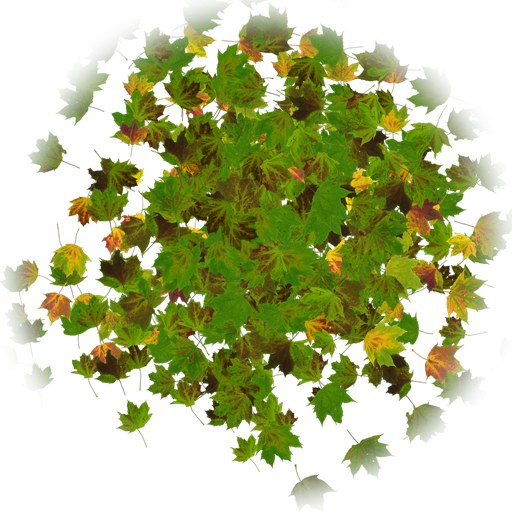
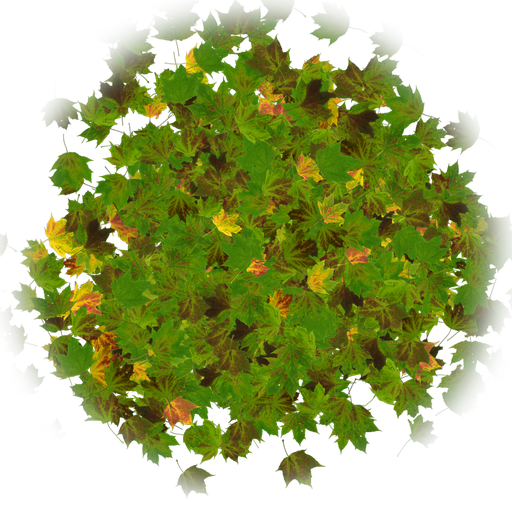
fid29 dressing: the plane crown at under 3 leaf layers
The leaf overdraw at the victory shot was 5.5 fragments per crown pixel (tools/props/leaf_overdraw.py: the
LOD0 crown rasterised from 8 side views, every fragment counted over the pixels where a leaf survives the alpha
test), against a cap of 3. The cluster texture now holds twice the leaves gathered tighter (make_atlas LEAF_N,
alpha coverage 0.46 -> 0.56 of the card), each card is the octagon that bounds the texture's leaves instead of a
square (0.79 of it is leaf), and the crown needs 250 cards instead of 380: 2.9 fragments per pixel (p95 7, was
14), surviving layers 2.8 -> 2.4, LOD0 3052 -> 3792 triangles (bark unchanged, 6 triangles a card). The mid
impostor is re-rendered from the new crown (tools/props/imp_sheet.py lays the two Cycles views side by side).
The prop atlases and every prop mesh keep their bytes.

diff --git a/app/game3d/tools/props/leaf_overdraw.py b/app/game3d/tools/props/leaf_overdraw.py
@@ -1,0 +1,56 @@
+# leaf_overdraw.py MESH.json LEAVES.png [threshold] : leaf overdraw of the London plane's crown (fid29 dressing).
+# Rasterises the leaf cards orthographically from 8 side views (every 45 degrees, 10 degrees up, as the fight camera sees
+# a street tree) on a 1 cm grid scaled to 512 px across the crown and counts, per pixel of the tree mask (pixels where
+# at least one fragment survives the alpha test at `threshold`): rasterised fragments (what the GPU shades, alpha-tested
+# ones included) and surviving fragments. Prints the mean and p95 over the mask for each view and overall.
+import json, math, sys
+import numpy as np
+from PIL import Image
+mesh = json.load(open(sys.argv[1])); alpha = np.asarray(Image.open(sys.argv[2]).convert("RGBA"))[:, :, 3].astype(np.float32) / 255.0
+thr = float(sys.argv[3]) if len(sys.argv) > 3 else 0.45
+H, W = alpha.shape
+tris = []
+for s in mesh:
+    v = np.array(s["v"], np.float64); uv = np.array(s["uv"], np.float64) if s["uv"] else None
+    idx = np.array(s["i"], np.int64).reshape(-1, 3) if s["i"] else np.arange(len(v)).reshape(-1, 3)
+    tris.append((v, uv, idx))
+N = 512
+def view(yaw, pitch):
+    cy, sy, cp, sp = math.cos(yaw), math.sin(yaw), math.cos(pitch), math.sin(pitch)
+    right = np.array([cy, 0, -sy]); fwd = np.array([sy * cp, sp, cy * cp]); up = np.cross(right, fwd) * -1.0
+    pts = [(v @ right, v @ up) for v, _, _ in tris]
+    allx = np.concatenate([p[0] for p in pts]); ally = np.concatenate([p[1] for p in pts])
+    x0, x1, y0, y1 = allx.min(), allx.max(), ally.min(), ally.max(); sc = (N - 1) / max(x1 - x0, y1 - y0)
+    raster = np.zeros((N, N), np.int32); passed = np.zeros((N, N), np.int32)
+    for (v, uv, idx), (px, py) in zip(tris, pts):
+        X = (px - x0) * sc; Y = (py - y0) * sc
+        for t in idx:
+            a, b, c = t
+            xs = np.array([X[a], X[b], X[c]]); ys = np.array([Y[a], Y[b], Y[c]])
+            bx0, bx1 = int(max(0, math.floor(xs.min()))), int(min(N - 1, math.ceil(xs.max())))
+            by0, by1 = int(max(0, math.floor(ys.min()))), int(min(N - 1, math.ceil(ys.max())))
+            if bx1 < bx0 or by1 < by0: continue
+            gx, gy = np.meshgrid(np.arange(bx0, bx1 + 1) + 0.5, np.arange(by0, by1 + 1) + 0.5)
+            d = (ys[1] - ys[2]) * (xs[0] - xs[2]) + (xs[2] - xs[1]) * (ys[0] - ys[2])
+            if abs(d) < 1e-9: continue
+            l0 = ((ys[1] - ys[2]) * (gx - xs[2]) + (xs[2] - xs[1]) * (gy - ys[2])) / d
+            l1 = ((ys[2] - ys[0]) * (gx - xs[2]) + (xs[0] - xs[2]) * (gy - ys[2])) / d
+            l2 = 1 - l0 - l1
+            inside = (l0 >= 0) & (l1 >= 0) & (l2 >= 0)
+            if not inside.any(): continue
+            raster[by0:by1 + 1, bx0:bx1 + 1] += inside
+            if uv is not None:
+                u = l0 * uv[a, 0] + l1 * uv[b, 0] + l2 * uv[c, 0]; w = l0 * uv[a, 1] + l1 * uv[b, 1] + l2 * uv[c, 1]
+                al = alpha[np.clip((w * H).astype(int) % H, 0, H - 1), np.clip((u * W).astype(int) % W, 0, W - 1)]
+                passed[by0:by1 + 1, bx0:bx1 + 1] += inside & (al >= thr)
+            else:
+                passed[by0:by1 + 1, bx0:bx1 + 1] += inside
+    m = passed > 0
+    return raster[m], passed[m], m.sum()
+R, P = [], []
+for k in range(8):
+    r, p, n = view(k * math.pi / 4, math.radians(10))
+    R.append(r); P.append(p)
+    print("view %3d deg: mask %6d px  rasterised mean %.2f p95 %.0f  surviving mean %.2f p95 %.0f" % (k * 45, n, r.mean(), np.percentile(r, 95), p.mean(), np.percentile(p, 95)))
+r = np.concatenate(R); p = np.concatenate(P)
+print("ALL: rasterised fragments per mask pixel mean %.2f p50 %.0f p95 %.0f; surviving mean %.2f p95 %.0f" % (r.mean(), np.percentile(r, 50), np.percentile(r, 95), p.mean(), np.percentile(p, 95)))

diff --git a/app/game3d/tools/props/make_atlas.py b/app/game3d/tools/props/make_atlas.py
@@ -10,6 +10,7 @@ PH, ACG, OUT = sys.argv[1], sys.argv[2], sys.argv[3]
 HERE = os.path.dirname(os.path.abspath(__file__))
 L = json.load(open(os.path.join(HERE, "atlas_layout.json")))
 os.makedirs(OUT, exist_ok=True)
+LEAF_N, LEAF_SPREAD = 96, 165   # leaves per cluster texture and their spread (px of 1024)
 TIERS = {"high": {"a": 2048, "n": 2048, "orm": 1024, "leaf": 512}, "mid": {"a": 1024, "n": 512, "orm": 512, "leaf": 256}}
 
 # Paint-outs on the 1K source maps: (kind, [x0, y0, x1, y1] to cover, [dx, dy] clean source offset, why)
@@ -125,7 +126,9 @@ def leaves(tier, S):
     big = 1024
     out = Image.new("RGBA", (big, big), (0, 0, 0, 0))
     # summer-to-autumn mix: most leaves pulled towards plane green, a few left yellow
-    for i in range(46):
+    # fid29 overdraw cap: twice the leaves, gathered tighter, so a card is mostly leaf (alpha coverage about 0.65 of
+    # the card, 0.9 of its trimmed octagon) and the crown needs fewer cards for the same leaf mass (dressing.md)
+    for i in range(LEAF_N):
         s = rnd.uniform(0.26, 0.42)
         w = int(leaf.size[0] * s)
         im = leaf.resize((w, w), Image.LANCZOS).rotate(rnd.uniform(0, 360), resample=Image.BICUBIC, expand=True)
@@ -133,8 +136,8 @@ def leaves(tier, S):
         if rnd.random() < 0.88:
             gr = ImageChops.multiply(Image.merge("RGB", (r, g, bb)), Image.new("RGB", im.size, (128, 196, 104)))
             r, g, bb = gr.split()
-        cx = 512 + rnd.gauss(0, 200)
-        cy = 512 + rnd.gauss(0, 200)
+        cx = 512 + rnd.gauss(0, LEAF_SPREAD)
+        cy = 512 + rnd.gauss(0, LEAF_SPREAD)
         out.alpha_composite(Image.merge("RGBA", (r, g, bb, a)), (int(cx - im.size[0] / 2), int(cy - im.size[1] / 2)))
     # keep the cluster inside a soft disc so a card's square never shows
     disc = Image.new("L", (big, big), 0)

diff --git a/app/game3d/tools/props/tree_blender.py b/app/game3d/tools/props/tree_blender.py
@@ -21,7 +21,12 @@ rnd = random.Random(1906)
 
 H_TRUNK = 3.1
 CARD = 1.5          # leaf card side (m): capped so the crown's overdraw stays near 3 layers
-N_CARDS = 380
+N_CARDS = 250       # fid29 overdraw cap: the denser cluster texture (make_atlas LEAF_N) needs fewer cards
+# each card is trimmed to the octagon that bounds the cluster texture's leaves (alpha >= 0.45; tools/props/leaf_overdraw.py
+# measures it): UV corners (0..1), the card's square minus its empty corners, so about 30 % fewer fragments are shaded
+# for nothing behind alpha-tested texels
+CARD_UV = [(0.8614, 0.8426), (0.4895, 0.9967), (0.1525, 0.8571), (0.0062, 0.504), (0.157, 0.14), (0.5006, 0.0),
+           (0.8533, 0.1437), (1.0, 0.503)]
 
 
 def perp(d):
@@ -121,9 +126,9 @@ for p in spots:
     u, w = u * math.cos(rot) + w * math.sin(rot), -u * math.sin(rot) + w * math.cos(rot)
     s = CARD * rnd.uniform(0.85, 1.15) / 2
     c = p + out * 0.2
-    vs = [bm.verts.new(c + (u * x + w * y) * s) for x, y in ((-1, -1), (1, -1), (1, 1), (-1, 1))]
+    vs = [bm.verts.new(c + (u * (2 * x - 1) + w * (2 * y - 1)) * s) for x, y in CARD_UV]
     f = bm.faces.new(vs)
-    for loop, uv in zip(f.loops, ((0, 0), (1, 0), (1, 1), (0, 1))):
+    for loop, uv in zip(f.loops, CARD_UV):
         loop[uvl].uv = uv
     f.material_index = 1
     leaf_faces.append(f)

diff --git a/app/game3d/tools/props/imp_sheet.py b/app/game3d/tools/props/imp_sheet.py
@@ -1,0 +1,13 @@
+# imp_sheet.py IMP_0.png IMP_1.png OUT.png : the mid tier's plane impostor texture (fid29 dressing): the two Cycles views
+# of tree_blender.py side by side (1024 x 512, view 0 left, view 1 right, as plane_imp.res's UVs), the transparent
+# texels filled with the crown's mean colour so mips never fringe dark.
+import sys
+from PIL import Image
+a, b = Image.open(sys.argv[1]).convert("RGBA"), Image.open(sys.argv[2]).convert("RGBA")
+o = Image.new("RGBA", (1024, 512), (0, 0, 0, 0)); o.paste(a, (0, 0)); o.paste(b, (512, 0))
+al = o.getchannel("A")
+px = [p for p, q in zip(o.convert("RGB").getdata(), al.getdata()) if q > 200]
+m = tuple(sum(c[i] for c in px) // max(1, len(px)) for i in range(3))
+rgb = Image.new("RGB", o.size, m); rgb.paste(o.convert("RGB"), (0, 0), al)
+rgb.putalpha(al); rgb.save(sys.argv[3], optimize=True)
+print("IMP sheet", sys.argv[3], "fill", m)
